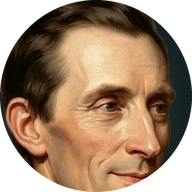
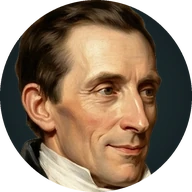
0.25.0: twice the commanders' portraits; a compact enemy fleet; Money with a quartermaster pop-out
- The half-length figures are twice the size; the panels start lower when a commander stands behind them.
- Enemy fleet: one row of hulls like Your fleet, with each ship's name and speciality on hover.
- Quartermaster becomes Money in the panel; the list of goods opens beside it on hover, and buying works there.
- Faces re-cropped: more of the Tidewarden's face, the Spymaster's mouth, the Gunmaster lower and to the left.
- The maelstrom gauge is placed from the middle of the screen; the hourglass and bottle from its very edges.
  Old saved debug positions for these three are dropped so they can be tuned again.

Claude-Session: https://claude.ai/code/session_01YYVmoea2wLgzN484L9txEM

diff --git a/src/ui/hud.ts b/src/ui/hud.ts
@@ -140,9 +140,10 @@ export class Hud {
         <div class="myCmd" id="myCmd" hidden tabindex="0"></div>
         <h2>The covenant</h2><div class="seals" id="seals" tabindex="0" aria-describedby="shopTip"></div><p class="howto" id="sealHow"></p>
         <h2>Admiralty orders</h2><p id="orderText"></p><p id="orderMeta" class="meta"></p>
-        <h2>Quartermaster <span id="gold" title="Doubloons"></span></h2><ul id="shop"></ul>
+        <h2 class="money" id="money" tabindex="0" aria-haspopup="true" aria-controls="shopPop">Money <span><span id="gold" title="Doubloons"></span><em>Buy ›</em></span></h2>
         <h2>Your fleet</h2><ul id="fleet"></ul>
       </aside>
+      <div class="shopPop card" id="shopPop" hidden><h2>Quartermaster</h2><ul id="shop"></ul></div>
       <aside class="card right"><h2>Enemy fleet</h2><p id="foeName"></p><div class="myCmd foe" id="foeCmd" hidden tabindex="0"></div><p class="meta" id="foeSeals"></p><ul id="foeFleet"></ul></aside>
       <p class="toast" id="toast" role="status"></p>
       <div class="belt" id="belt"></div>
@@ -212,6 +213,30 @@ export class Hud {
       tip.hidden = false;
     });
     shop.addEventListener('pointerleave', () => { tip.hidden = true; });
+    // The quartermaster opens beside the panel while the pointer is over Money (or the list itself).
+    const money = this.q<HTMLElement>('#money'), pop = this.q<HTMLElement>('#shopPop');
+    let closing = 0;
+    const open = () => {
+      clearTimeout(closing);
+      const r = money.getBoundingClientRect(), panel = money.closest('.card')!.getBoundingClientRect();
+      pop.hidden = false;
+      pop.style.left = panel.right + 6 + 'px';
+      pop.style.top = Math.max(70, Math.min(innerHeight - pop.offsetHeight - 170, r.top - 14)) + 'px';
+    };
+    const close = () => { clearTimeout(closing); closing = window.setTimeout(() => { pop.hidden = true; tip.hidden = true; }, 220); };
+    for (const el of [money, pop]) { el.addEventListener('pointerenter', open); el.addEventListener('pointerleave', close); }
+    money.addEventListener('focus', open); money.addEventListener('blur', close);
+    // Enemy ships: each group of squares names her and her speciality.
+    const foeFleet = this.q<HTMLElement>('#foeFleet');
+    foeFleet.addEventListener('pointerover', (e) => {
+      const li = (e.target as Element).closest<HTMLElement>('li[data-cls]');
+      if (!li) return;
+      tip.innerHTML = `<b>${esc(li.dataset.cls!)}</b><span class="cost">${esc(li.dataset.state!)}</span><p>${esc(li.dataset.trait!)}</p>`;
+      const r = li.getBoundingClientRect(), panel = li.closest('.card')!.getBoundingClientRect();
+      tip.hidden = false;
+      tip.style.left = panel.left - tip.offsetWidth - 10 + 'px'; tip.style.top = r.top - 30 + 'px';
+    });
+    foeFleet.addEventListener('pointerleave', () => { tip.hidden = true; });
     // The covenant's seals explain themselves on hover (or focus).
     const seals = this.q<HTMLElement>('#seals');
     const showSeals = () => {
@@ -491,6 +516,7 @@ export class Hud {
       el.hidden = !info;
       // Their portrait stands behind the panel, half-length, looking across the table (the enemy's is mirrored).
       const img = this.q<HTMLImageElement>(id === '#myCmd' ? '.portrait.mine' : '.portrait.foe'), src = side.cmd ? `/ui/cmd/${side.cmd}.webp` : '';
+      this.root.classList.toggle(id === '#myCmd' ? 'with-mine' : 'with-foe', !!src);
       if (!src) img.hidden = true;
       else if (img.dataset.src !== src) { img.dataset.src = src; img.hidden = true; img.onload = () => { img.hidden = false; }; img.onerror = () => { img.hidden = true; }; img.src = src; }
       if (info) { el.innerHTML = `<i class="face" style="background-image:url(/ui/cmd/${side.cmd}_face.webp)"></i><span>${id === '#myCmd' ? 'Your commander' : 'Their commander'}<b>${info.name}</b></span>`; el.dataset.cmd = side.cmd!; }
@@ -520,7 +546,8 @@ export class Hud {
     this.q('#foeFleet').innerHTML = FLEETS[foeRole].map((f) => {
       const sunk = (lost[f.kind] || 0) > 0;
       if (sunk) lost[f.kind]--;
-      return `<li class="${sunk ? 'sunk' : ''}"><span>${f.cls}</span><span class="pips">${`<i class="${sunk ? 'hit' : ''}"></i>`.repeat(f.len)}</span></li>`;
+      const trait = TRAIT_HELP[f.trait] ?? f.trait;
+      return `<li class="${sunk ? 'sunk' : ''}" data-cls="${esc(f.cls)}" data-state="${sunk ? 'Sunk' : 'Afloat'}" data-trait="${esc(f.trait + ': ' + trait)}"><span class="pips">${`<i class="${sunk ? 'hit' : ''}"></i>`.repeat(f.len)}</span></li>`;
     }).join('');
 
     this.q('#orderText').textContent = c.order ? c.order.text : p.phase === 'placement' ? 'Sealed until the battle begins.' : '—';

diff --git a/src/ui/tuner.ts b/src/ui/tuner.ts
@@ -14,7 +14,7 @@ const KNOBS: Knob[] = [
   { v: '--belt-y', label: 'Cards at rest (Y)', min: -120, max: 80, step: 2, unit: 'px', def: 26 },
   { v: '--card-lift', label: 'Card raised (Y)', min: 0, max: 200, step: 2, unit: 'px', def: 20 },
   { v: '--wind', label: 'Wind strength', min: 0, max: 3, step: 0.1, unit: '', def: 1 },
-  { v: '--mael-x', label: 'Gauge: X from right', min: 0, max: 1200, step: 2, unit: 'px', def: 474 },
+  { v: '--mael-x', label: 'Gauge: X from centre', min: -700, max: 700, step: 2, unit: 'px', def: 178 },
   { v: '--mael-y', label: 'Gauge: Y', min: 0, max: 600, step: 2, unit: 'px', def: 88 },
   { v: '--lamp-dir', label: 'Gauge lamps: top (-1) / bottom (1)', min: -1, max: 1, step: 2, unit: '', def: -1 },
   { v: '--lamp-x', label: 'Gauge lamps: X', min: -40, max: 40, step: 1, unit: 'px', def: 3 },
@@ -34,8 +34,8 @@ const KNOBS: Knob[] = [
   { v: '--move-bri', label: 'Move cards: brightness', min: 0.3, max: 1.8, step: 0.02, unit: '', def: 0.68 },
 ];
 const MOVES: Record<string, { x: string; y: string; def: [number, number]; fromRight?: boolean }> = {
-  bottle: { x: '--bottle-x', y: '--bottle-y', def: [93, 18] },
-  glass: { x: '--glass-x', y: '--glass-y', def: [285, 6], fromRight: true },
+  bottle: { x: '--bottle-x', y: '--bottle-y', def: [113, 18] },
+  glass: { x: '--glass-x', y: '--glass-y', def: [305, 6], fromRight: true },
 };
 
 /** Knobs that are not only CSS (the wind) are passed on to the game through this event. */
@@ -45,11 +45,15 @@ export function installTuner(hud: HTMLElement) {
   const root = document.documentElement.style;
   let saved: Record<string, string> = {};
   try { saved = JSON.parse(localStorage.getItem(KEY) || '{}'); } catch { /* storage unavailable */ }
+  // Version 2 measures the gauge from the middle of the screen and the bottle and glass from its very edges:
+  // older saved positions for those three would land in the wrong place, so they are dropped.
+  if (saved['--tuning-v'] !== '2') { for (const k of ['--mael-x', '--glass-x', '--bottle-x']) delete saved[k]; saved['--tuning-v'] = '2'; }
   for (const [k, v] of Object.entries(saved)) { root.setProperty(k, v); queueMicrotask(() => tuned(k, parseFloat(v))); }
   const val = (k: string) => getComputedStyle(document.documentElement).getPropertyValue(k).trim();
   const save = () => {
     const all: Record<string, string> = {};
     for (const k of [...KNOBS.map((q) => q.v), ...Object.values(MOVES).flatMap((m) => [m.x, m.y])]) all[k] = val(k);
+    all['--tuning-v'] = '2';
     try { localStorage.setItem(KEY, JSON.stringify(all)); } catch { /* ignore */ }
     out.value = JSON.stringify(all, null, 1);
   };

diff --git a/src/ui/hud.css b/src/ui/hud.css
@@ -650,3 +650,27 @@ button:focus-visible, input:focus-visible { outline: 2px solid var(--amber); out
 .cmdModal .cmd.on i.face { border-color: var(--wax); box-shadow: 0 0 0 2px var(--wax), 0 2px 6px rgba(0, 0, 0, .6); }
 .cmdModal .card { width: min(620px, calc(100vw - 32px)); }
 #lobby .banner .title { margin: -34px 0 0; }
+
+/* ---------- 0.25: room for twice the portraits — a compact enemy fleet, the quartermaster in a pop-out ---------- */
+#hud .portrait { top: 6px; width: 260px; height: 244px; }
+#hud .portrait.mine { left: 10px; }
+#hud .portrait.foe { right: 0; }
+#hud.with-mine .card.left { top: 214px; max-height: calc(100vh - 214px - 168px); }
+#hud.with-foe .card.right { top: 214px; }
+/* Enemy fleet: one row of hulls, like Your fleet; hover a hull for her name and speciality. */
+#foeFleet { display: flex; flex-direction: row; flex-wrap: nowrap; gap: 8px; margin: 2px 0 0; padding: 0; }
+#foeFleet li { display: block; padding: 0; border: 0; cursor: help; }
+#foeFleet .pips { gap: 1.5px; } #foeFleet .pips i { width: 8px; height: 14px; background: var(--ink); }
+#foeFleet .pips i.hit { background: var(--wax); }
+#foeFleet li.sunk .pips { opacity: .45; }
+.card.right { bottom: auto; }
+/* Money: the purse in the panel; the quartermaster's list opens beside it. */
+#hud .money { cursor: pointer; }
+#hud .money em { font: italic 12px var(--body); letter-spacing: 0; text-transform: none; color: #6b5233; margin-left: 8px; }
+#hud .money:hover em, #hud .money:focus-visible em { color: var(--wax); }
+.shopPop { position: absolute; z-index: 6; width: 250px; padding: 16px 18px 12px; pointer-events: auto; }
+.shopPop[hidden] { display: none; }
+/* The gauge stands a fixed distance from the middle of the screen; the hourglass and bottle from its sides. */
+.mael { right: auto; left: calc(50vw + var(--mael-x) - 48px); }
+:root { --mael-x: 178px; --glass-x: 305px; --bottle-x: 113px; }
+.battle { position: static; }
